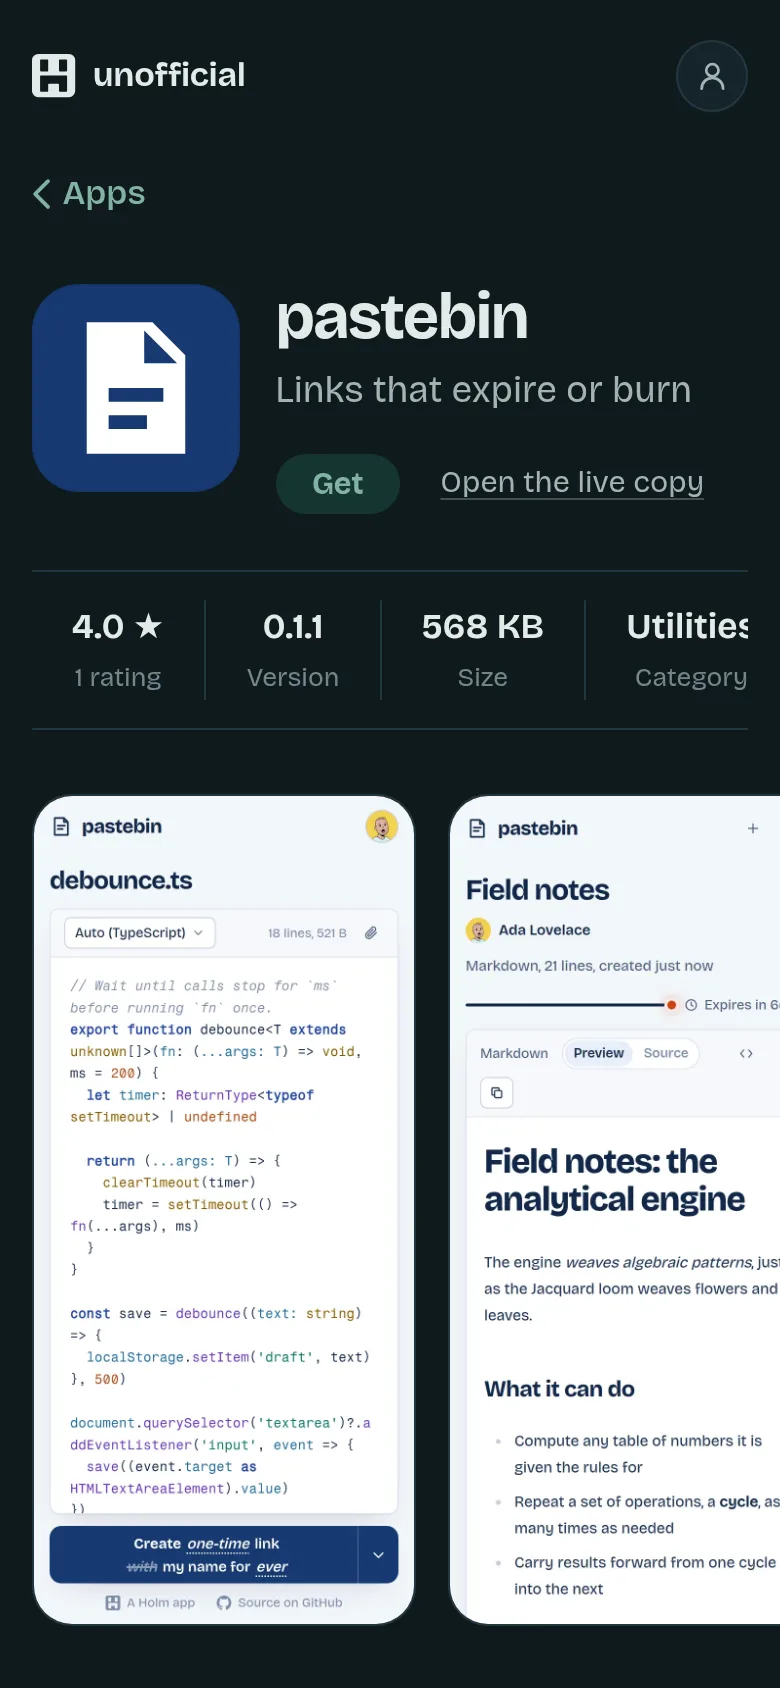
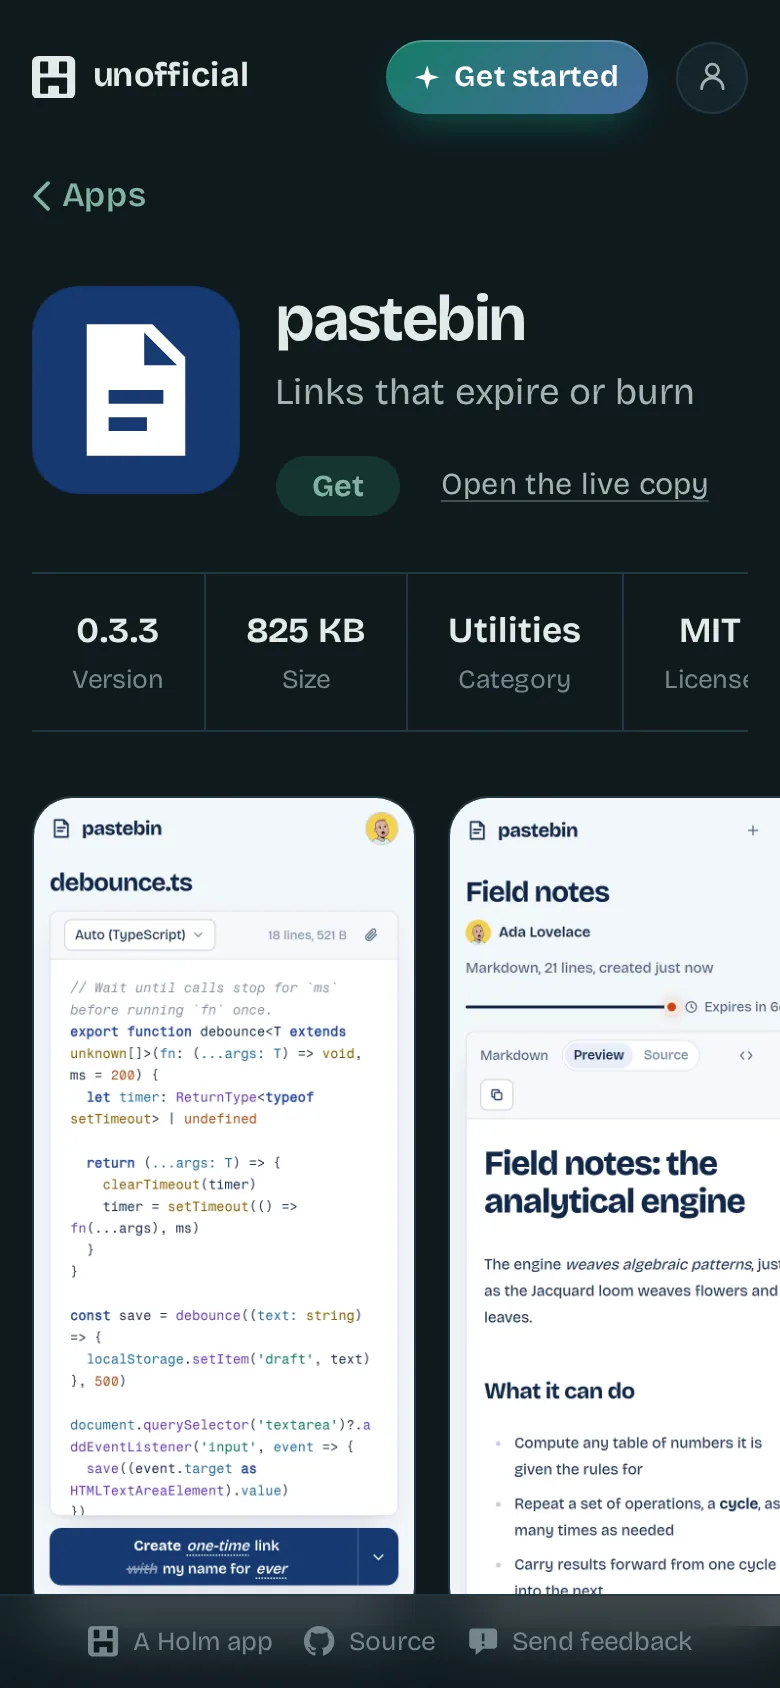
catalog 0.11.2: the facts strip's dividers meet its lines
On an app's page each fact now carries the strip's height, so the
dividers between them run from the line above to the line below, as in
the grid of apps. The listing's picture of an app's page is retaken.

diff --git a/catalog/web/src/styles.css b/catalog/web/src/styles.css
@@ -368,13 +368,15 @@ main { flex: 1 0 auto; padding-bottom: 3.5rem; }
   .product { gap: 1.1rem; align-items: flex-start; }
 }
 
+/* Each fact carries the strip's height, so the dividers between them meet
+   the lines above and below, as in the grid of apps. */
 .facts {
-  list-style: none; margin: 0; padding: 0.9rem 0;
+  list-style: none; margin: 0; padding: 0;
   display: flex; overflow-x: auto;
   border-block: 1px solid var(--rule);
   scrollbar-width: none;
 }
-.facts li { flex: 1 0 auto; display: grid; justify-items: center; gap: 0.1rem; padding: 0 1.25rem; text-align: center; }
+.facts li { flex: 1 0 auto; display: grid; justify-items: center; gap: 0.1rem; padding: 0.9rem 1.25rem; text-align: center; }
 .facts li + li { border-left: 1px solid var(--rule); }
 .facts strong { font-size: 1.1rem; font-weight: 650; white-space: nowrap; }
 .facts span { font-size: 0.82rem; color: var(--ink-3); }

diff --git a/catalog/README.md b/catalog/README.md
@@ -77,7 +77,8 @@ out of this app's deploy. They are still public source in this repository.
   The store's pages need JavaScript, so their `<noscript>` points agents here.
 - **App pages** at `/apps/<app>`:
   - the icon, title, subtitle, Get and a link to the live copy;
-  - a strip of facts: version, size, category, license;
+  - a strip of facts: version, size, category, license, ruled like the
+    grid of apps, its dividers meeting the lines above and below;
   - screenshots you can swipe through;
   - the description and what's new in this version;
   - **Built from a prompt:** the request a coding agent built the app from;

diff --git a/catalog/PROMPT.md b/catalog/PROMPT.md
@@ -251,6 +251,10 @@ clips and shadows them.
 
 Get stayed on the list view's rows and on the cover.
 
+**Iteration 16**:
+
+> I think that same touching of separators should be there in detail page too?
+
 The build request spells out the repository conventions without claiming
 they are a shipped Holm store protocol. It uses the public v1 guide for
 runtime and deploy behavior and states the node-role and binary-fetch gaps.
